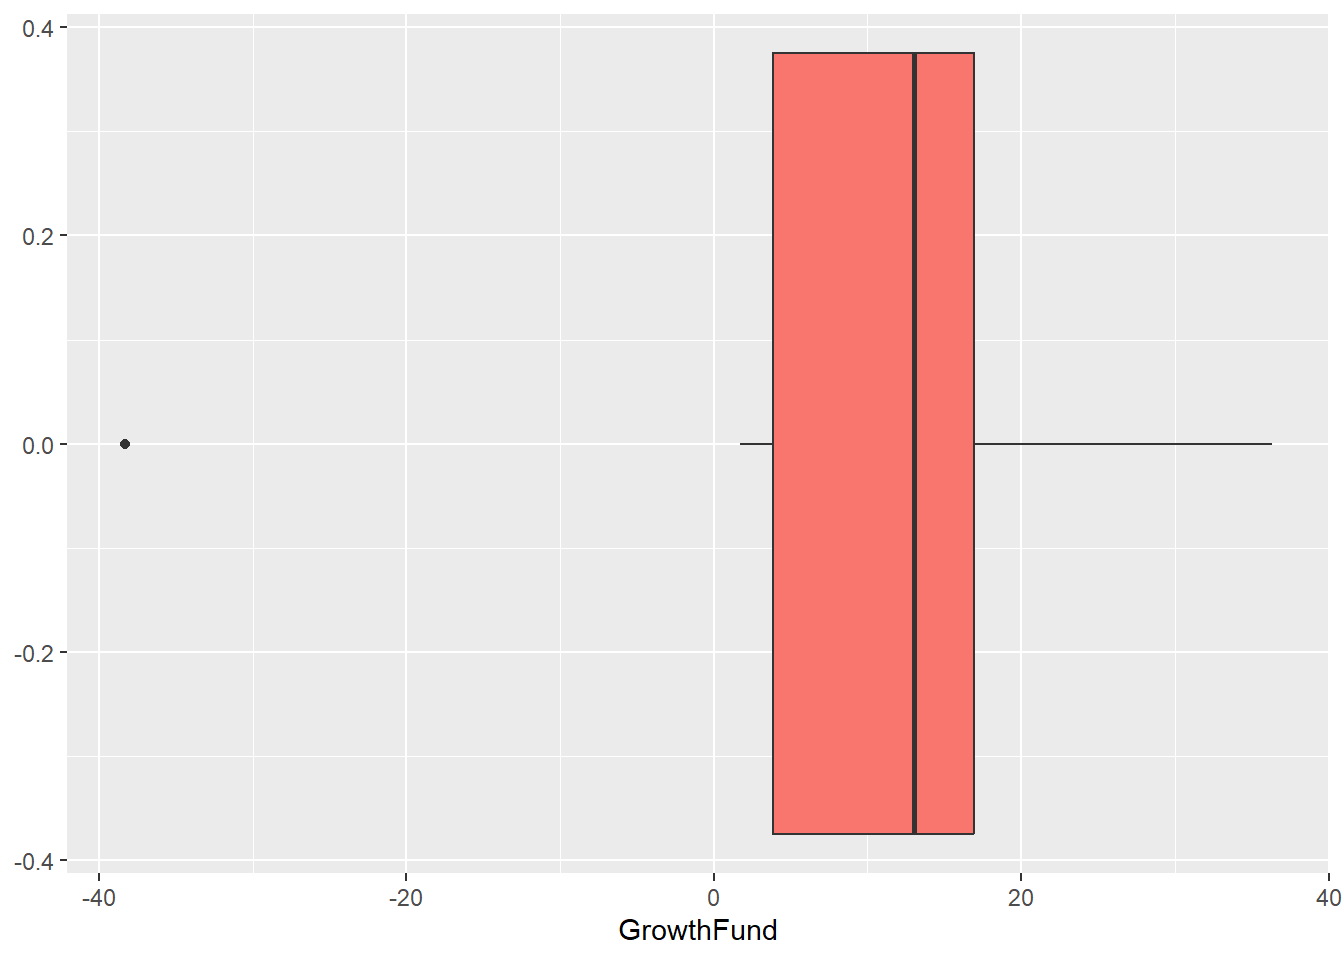
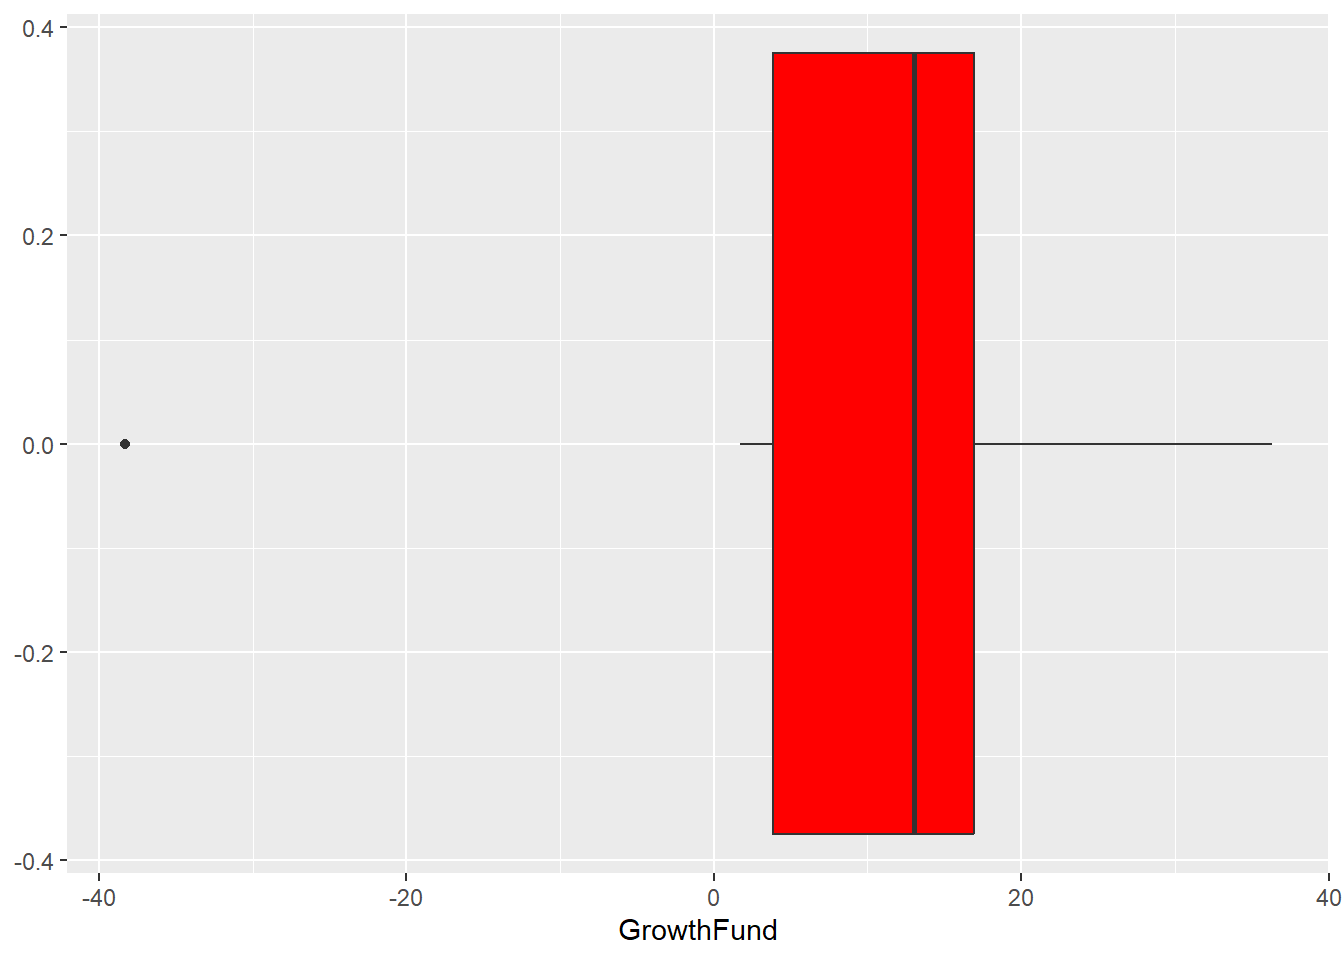
update viz

Changed region(s): [[0.5625, 0.0312, 0.75, 0.875]]

diff --git a/docs/dataviz.html b/docs/dataviz.html
@@ -419,7 +419,7 @@ window.Quarto = {
 <span id="cb3-10"><a href="#cb3-10" aria-hidden="true" tabindex="-1"></a>    <span class="st">"No Opinion"</span>), <span class="at">Percentage =</span> <span class="fu">c</span>(GoUp, GoDown, RemainStable, NoOpinion))</span>
 <span id="cb3-11"><a href="#cb3-11" aria-hidden="true" tabindex="-1"></a><span class="co"># Making the graph</span></span>
 <span id="cb3-12"><a href="#cb3-12" aria-hidden="true" tabindex="-1"></a>MarketShare <span class="ot">&lt;-</span> <span class="fu">ggplot</span>(data_frame, <span class="fu">aes</span>(<span class="at">x =</span> Category, <span class="at">y =</span> Percentage, <span class="at">fill =</span> Category)) <span class="sc">+</span></span>
-<span id="cb3-13"><a href="#cb3-13" aria-hidden="true" tabindex="-1"></a>    <span class="fu">geom_bar</span>(<span class="at">stat =</span> <span class="st">"identity"</span>) <span class="sc">+</span> <span class="fu">labs</span>(<span class="at">title =</span> <span class="st">"How do you expect R's market share to change?"</span>,</span>
+<span id="cb3-13"><a href="#cb3-13" aria-hidden="true" tabindex="-1"></a>    <span class="fu">geom_bar</span>(<span class="at">stat =</span> <span class="st">"identity"</span>, <span class="at">show.legend =</span> <span class="cn">FALSE</span>) <span class="sc">+</span> <span class="fu">labs</span>(<span class="at">title =</span> <span class="st">"How do you expect R's market share to change?"</span>,</span>
 <span id="cb3-14"><a href="#cb3-14" aria-hidden="true" tabindex="-1"></a>    <span class="at">x =</span> <span class="st">"Opinion Category"</span>, <span class="at">y =</span> <span class="st">"Percentage (%)"</span>) <span class="sc">+</span> <span class="fu">theme_minimal</span>() <span class="sc">+</span> <span class="fu">geom_text</span>(<span class="fu">aes</span>(<span class="at">label =</span> Percentage),</span>
 <span id="cb3-15"><a href="#cb3-15" aria-hidden="true" tabindex="-1"></a>    <span class="at">vjust =</span> <span class="sc">-</span><span class="fl">0.5</span>, <span class="at">size =</span> <span class="dv">4</span>)</span>
 <span id="cb3-16"><a href="#cb3-16" aria-hidden="true" tabindex="-1"></a>MarketShare</span></code><button title="Copy to Clipboard" class="code-copy-button"><i class="bi"></i></button></pre></div>
@@ -996,7 +996,7 @@ FALSE </code></pre>
 <li>We can add a little color to the plot with the fill parameter, but then we also need to be sure to turn off the legends in the geom_boxplot.</li>
 </ul>
 <div class="cell">
-<div class="sourceCode cell-code" id="cb53"><pre class="sourceCode r code-with-copy"><code class="sourceCode r"><span id="cb53-1"><a href="#cb53-1" aria-hidden="true" tabindex="-1"></a><span class="fu">ggplot</span>(GrowthFund, <span class="fu">aes</span>(GrowthFund, <span class="at">fill =</span> <span class="st">"red"</span>)) <span class="sc">+</span> <span class="fu">geom_boxplot</span>(<span class="at">show.legend =</span> <span class="cn">FALSE</span>)</span></code><button title="Copy to Clipboard" class="code-copy-button"><i class="bi"></i></button></pre></div>
+<div class="sourceCode cell-code" id="cb53"><pre class="sourceCode r code-with-copy"><code class="sourceCode r"><span id="cb53-1"><a href="#cb53-1" aria-hidden="true" tabindex="-1"></a><span class="fu">ggplot</span>(GrowthFund, <span class="fu">aes</span>(GrowthFund)) <span class="sc">+</span> <span class="fu">geom_boxplot</span>(<span class="at">fill =</span> <span class="st">"red"</span>)</span></code><button title="Copy to Clipboard" class="code-copy-button"><i class="bi"></i></button></pre></div>
 <div class="cell-output-display">
 <div>
 <figure class="figure">
